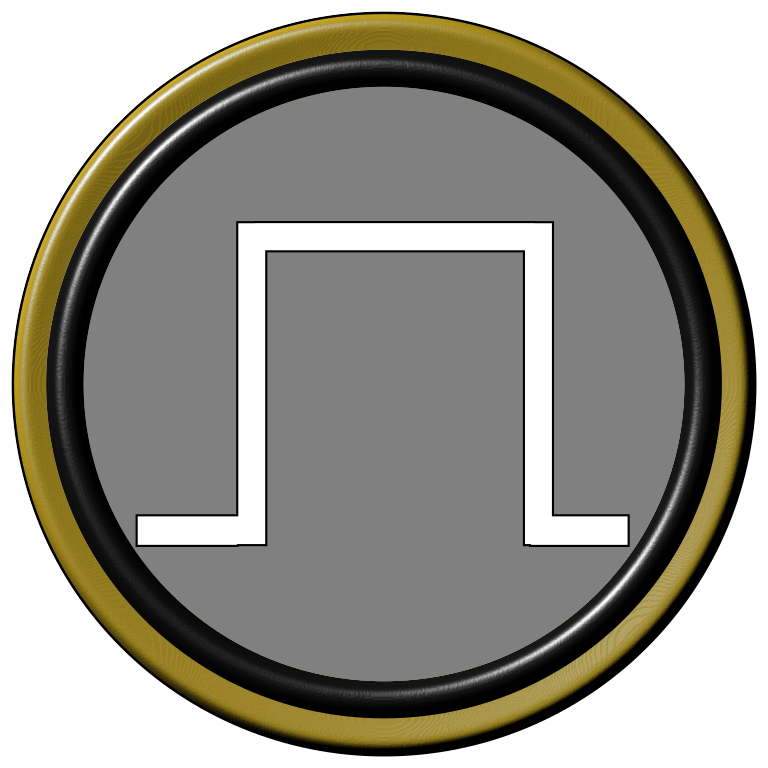
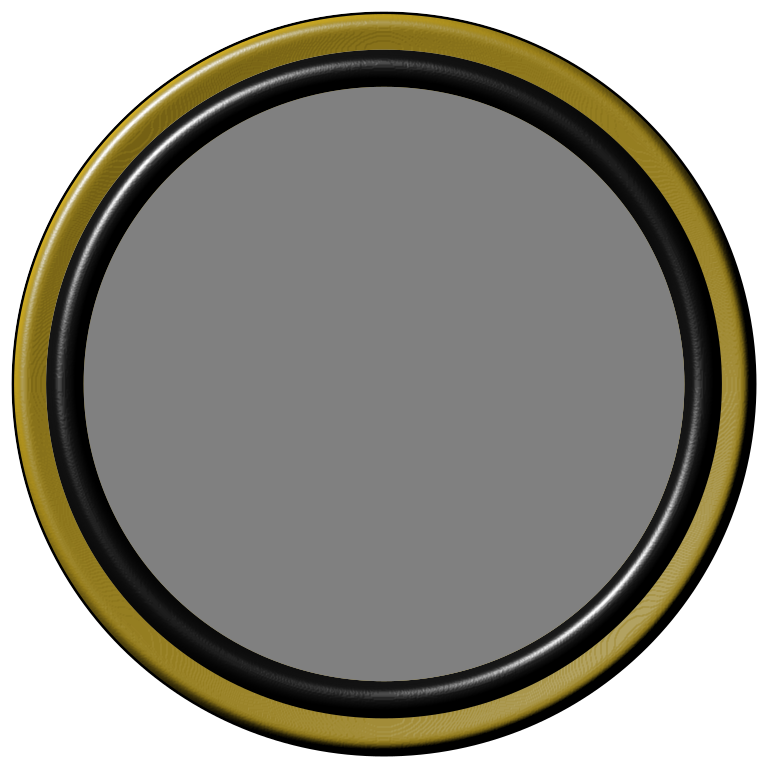
make the clock element show a wave form, and make one global clock for the whole design

Changed region(s): [[0.1562, 0.2812, 0.8438, 0.7188]]

diff --git a/src/model_clock.cpp b/src/model_clock.cpp
@@ -29,6 +29,7 @@ Uint32 SDL_timer_func(Uint32 interval, void *param)
     ev.user.data1 = NULL;
     ev.user.data2 = NULL;
 
+    global_clock.boolval = !global_clock.boolval;
     if (!SDL_PushEvent(&ev)) {
      printf("Push failure %s\n", SDL_GetError());
     }
@@ -56,7 +57,9 @@ model_clock::model_clock(float _X, float _Y)  : element(1, 1, "Output")
     
     set_timer();
     
-    add_port(-1, 1, "clk", PORT_OUT);    
+    global_clock.valid = true;
+    
+    add_port(1, sizeY, "clk", PORT_OUT);    
 }
 
 model_clock::~model_clock(void)
@@ -65,14 +68,19 @@ model_clock::~model_clock(void)
 
 void model_clock::drawAt(class canvas *canvas, float X, float Y, int type)
 {
+
+    if (!waveform)
+        waveform = canvas->load_image("assets/clock_wave.png");
     if (selected) {
         canvas->draw_image("assets/clock_selected.png", X, Y, sizeX, sizeY, Alpha(type));
     } else {
-        if (value.boolval) {
-            canvas->draw_image("assets/clock_on.png", X, Y, sizeX, sizeY, Alpha(type));
-        } else {	
-            canvas->draw_image("assets/clock_off.png", X, Y, sizeX, sizeY, Alpha(type));
-        }
+        struct timeval tv;
+        gettimeofday(&tv, NULL);
+        float f;
+        f = tv.tv_usec / 1000000.0;
+        f = f * (450-25);
+        canvas->draw_image("assets/clock_off.png", X, Y, sizeX, sizeY, Alpha(type));
+        canvas->draw_image_fragment(waveform, X+0.6, Y+0.6, sizeX-1.2, sizeY-1.2, 25 + f, 0, 450 -25, 189 );
     }
 
     for (auto port : ports) {
@@ -96,10 +104,8 @@ void model_clock::from_json(json &j)
 
 void model_clock::handle_event(class canvas *canvas, SDL_Event &event)
 {
-    value.valid = true;
     if (event.type == SDL_timer_event) {
-	    value.boolval = !value.boolval;
-	    ports[0]->update_value(&value, DEFAULT_TTL);
+	    ports[0]->update_value(&global_clock, DEFAULT_TTL);
     }
 }
 
@@ -131,3 +137,4 @@ struct value model_clock::get_value(void)
 
 
 
+struct value global_clock = {};

diff --git a/src/basecanvas.cpp b/src/basecanvas.cpp
@@ -214,6 +214,30 @@ void basecanvas::draw_image(SDL_Texture *image, float X, float Y, float W, float
 	SDL_RenderCopy(renderer, image, NULL, &rect);
 }
 
+void basecanvas::draw_image_fragment(SDL_Texture *image, float X, float Y, float W, float H, int fromX, int fromY, int w, int h) 
+{
+	SDL_Rect rect, src;
+	
+	if (!image) {
+		return;
+	}
+
+	
+	rect.x = X_to_scr(X);
+	rect.y = Y_to_scr(Y);
+	rect.w = W * scaleX;
+	rect.h = H * scaleY;
+	
+	src.x = fromX;
+	src.y = fromY;
+	src.w = w;
+	src.h = h;
+		
+	SDL_SetTextureAlphaMod(image, 255);
+	
+	SDL_RenderCopy(renderer, image, &src, &rect);
+}
+
 void basecanvas::draw_image_rotated(SDL_Texture *image, float X, float Y, float W, float H, int alpha, int angle) 
 {
 	SDL_Rect rect;

diff --git a/include/gridcad.h b/include/gridcad.h
@@ -90,6 +90,7 @@ public:
     void draw_image(std::string filename, float X, float Y, float W, float H, int alpha=255, bool keepaspect = false);
     void draw_image_rotated(SDL_Texture *image, float X, float Y, float W, float H, int alpha=255, int angle = 0);
     void draw_image_rotated(std::string filename, float X, float Y, float W, float H, int alpha=255, int angle = 0);
+    void draw_image_fragment(SDL_Texture *image, float X, float Y, float W, float H, int fromX, int fromY, int w, int h);
     SDL_Texture *text_to_texture(const char *text);
     SDL_Texture *text_to_texture(std::string text);
     void draw_text(std::string text, float X, float Y, float W, float H);

diff --git a/src/document.cpp b/src/document.cpp
@@ -27,7 +27,6 @@ using json = nlohmann::json;
 
 static std::vector<class basecanvas *> canvases;
 
-
 document::document(std::string _name)
 {
 	class canvas *_canvas;
@@ -47,7 +46,7 @@ document::document(std::string _name)
 	_canvas = new canvas(_scene);
 
 	register_new_canvas(_canvas);
-
+	
 	if (access((name + ".json").c_str(), R_OK) == 0) {
 		json j;
 		std::ifstream input((name + ".json").c_str());

diff --git a/include/model_clock.h b/include/model_clock.h
@@ -21,5 +21,9 @@ public:
     
 private:
     struct value value = {};
+    SDL_Texture *waveform = NULL;
 };
 
+
+
+extern struct value global_clock;
